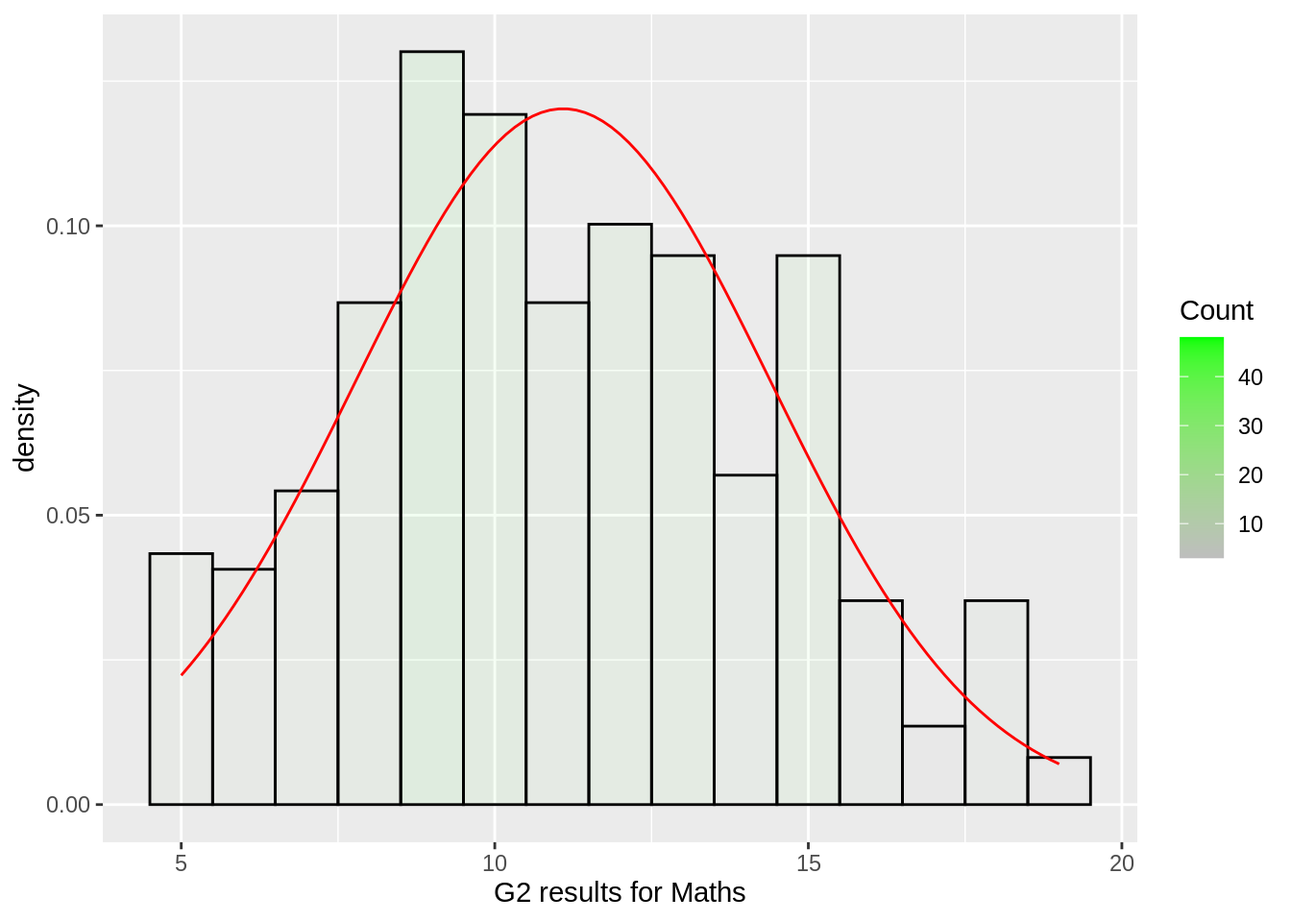
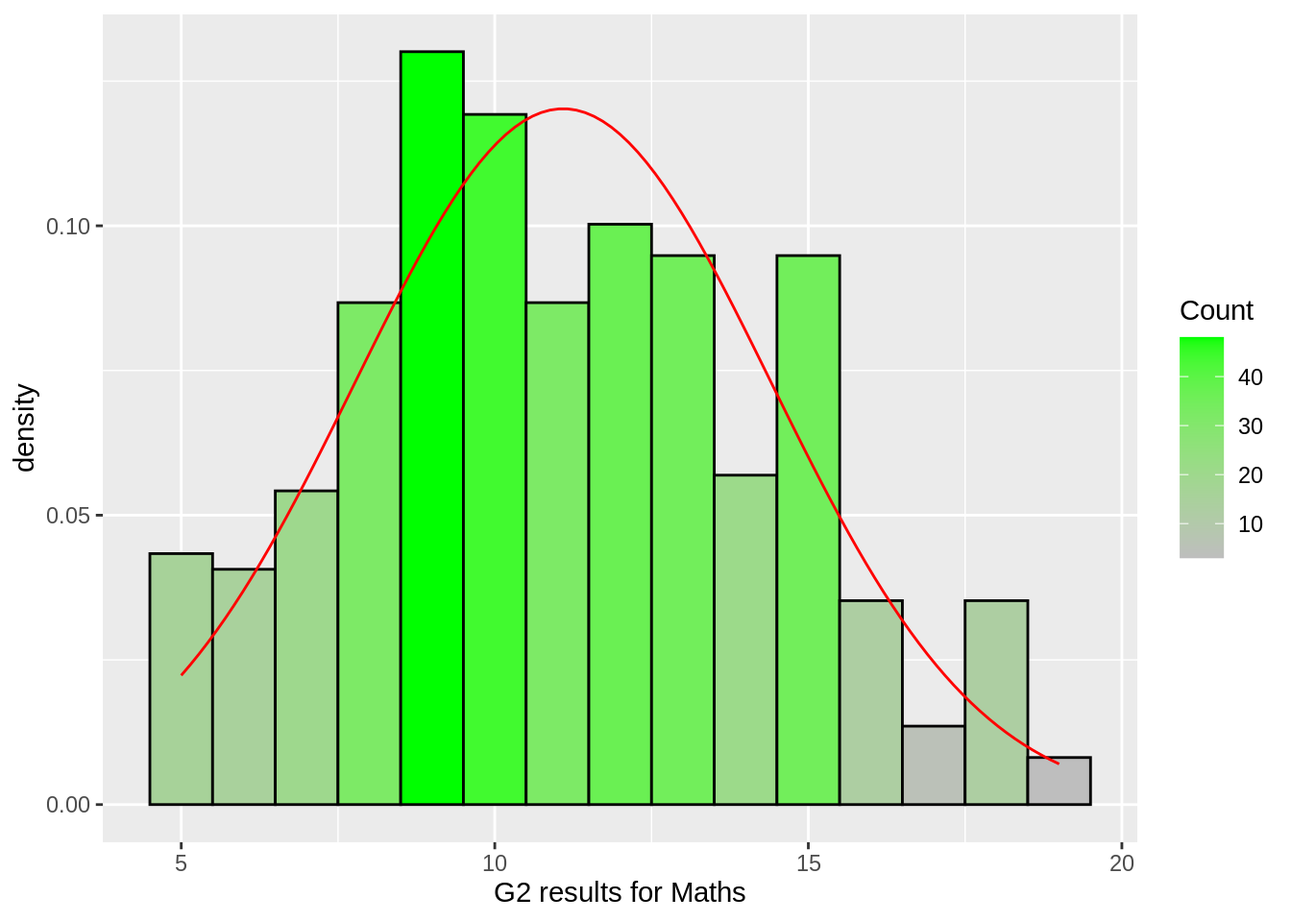
adding chi square test

Changed region(s): [[0.0938, 0.0312, 0.8438, 0.875]]

diff --git a/docs/posts/studentperf/index.html b/docs/posts/studentperf/index.html
@@ -211,18 +211,18 @@ studentdf<span style="color:#f92672">=</span><span style="color:#a6e22e">merge</
 <p>let’s us pick a random student:</p>
 <div class="highlight"><pre style="color:#f8f8f2;background-color:#272822;-moz-tab-size:4;-o-tab-size:4;tab-size:4"><code class="language-r" data-lang="r">studentdf <span style="color:#f92672">%&gt;%</span> 
   <span style="color:#a6e22e">sample_n</span>(<span style="color:#ae81ff">1</span>) 
-</code></pre></div><pre><code>##   school sex age address famsize pstatus medu fedu     mjob  fjob     reason
-## 1     GP   F  15       U     LE3       T    3    2 services other reputation
+</code></pre></div><pre><code>##   school sex age address famsize pstatus medu fedu     mjob     fjob     reason
+## 1     GP   M  17       U     LE3       T    2    3 services services reputation
 ##   nursery internet guardian.x traveltime.x studytime.x failures.x schoolsup.x
-## 1     yes      yes     mother            1           2          0          no
+## 1      no      yes     father            1           2          0          no
 ##   famsup.x paid.x activities.x higher.x romantic.x famrel.x freetime.x goout.x
-## 1      yes    yes           no      yes         no        4          4       4
+## 1      yes    yes           no      yes         no        5          3       3
 ##   dalc.x walc.x health.x absences.x g1.x g2.x g3.x guardian.y traveltime.y
-## 1      1      1        5         10    7    6    6     mother            1
+## 1      1      3        3          2   12   11   12     father            1
 ##   studytime.y failures.y schoolsup.y famsup.y paid.y activities.y higher.y
 ## 1           2          0          no      yes     no           no      yes
 ##   romantic.y famrel.y freetime.y goout.y dalc.y walc.y health.y absences.y g1.y
-## 1         no        4          4       4      1      1        5          4   12
+## 1         no        5          3       3      1      3        3          0   10
 ##   g2.y g3.y
 ## 1   11   11
 </code></pre>
@@ -1100,6 +1100,7 @@ t[t<span style="color:#f92672">&gt;</span><span style="color:#ae81ff">0</span>]
 <li>Is there a difference in the health of the students between the students who’s address is rural vs urban?</li>
 <li>Does the reason for choosing the school impact the the final grade in Portugese?</li>
 <li>Are there any differences between each student’s mother’s Education and their Final Grade result in Maths including the zero results.</li>
+<li>Is there a difference between the male and females students in terms of their weekly study time?</li>
 </ol>
 <h2 id="correlation-g2-and-g3">Correlation (G2 and G3)</h2>
 <p>Looking at the two variables for Maths. Please refer to [skew-and-kurtosis-analysis] for the g3 analysis of Maths.
@@ -1107,7 +1108,7 @@ Looking at g2, I know there is some missing data but a very small amount. We nee
 <div class="highlight"><pre style="color:#f8f8f2;background-color:#272822;-moz-tab-size:4;-o-tab-size:4;tab-size:4"><code class="language-r" data-lang="r">studentdf <span style="color:#f92672">%&gt;%</span>
   <span style="color:#a6e22e">ggplot</span>(<span style="color:#a6e22e">aes</span>(x<span style="color:#f92672">=</span>g2.x)) <span style="color:#f92672">+</span>
   <span style="color:#a6e22e">labs</span>(x<span style="color:#f92672">=</span><span style="color:#e6db74">&#34;G2 results for Maths&#34;</span>) <span style="color:#f92672">+</span>
-  <span style="color:#a6e22e">geom_histogram</span>(alpha <span style="color:#f92672">=</span> <span style="color:#ae81ff">.05</span>, binwidth<span style="color:#f92672">=</span><span style="color:#ae81ff">1</span>, colour<span style="color:#f92672">=</span><span style="color:#e6db74">&#34;black&#34;</span>, <span style="color:#a6e22e">aes</span>(y<span style="color:#f92672">=</span>..density.., fill<span style="color:#f92672">=</span>..count..)) <span style="color:#f92672">+</span>
+  <span style="color:#a6e22e">geom_histogram</span>( binwidth<span style="color:#f92672">=</span><span style="color:#ae81ff">1</span>, colour<span style="color:#f92672">=</span><span style="color:#e6db74">&#34;black&#34;</span>, <span style="color:#a6e22e">aes</span>(y<span style="color:#f92672">=</span>..density.., fill<span style="color:#f92672">=</span>..count..)) <span style="color:#f92672">+</span>
   <span style="color:#a6e22e">scale_fill_gradient</span>(<span style="color:#e6db74">&#34;Count&#34;</span>, low<span style="color:#f92672">=</span><span style="color:#e6db74">&#34;grey&#34;</span>, high<span style="color:#f92672">=</span><span style="color:#e6db74">&#34;green&#34;</span>) <span style="color:#f92672">+</span>
   <span style="color:#a6e22e">stat_function</span>(fun<span style="color:#f92672">=</span>dnorm, color<span style="color:#f92672">=</span><span style="color:#e6db74">&#34;red&#34;</span>,args<span style="color:#f92672">=</span><span style="color:#a6e22e">list</span>(mean<span style="color:#f92672">=</span><span style="color:#a6e22e">mean</span>(studentdf<span style="color:#f92672">$</span>g2.x, na.rm<span style="color:#f92672">=</span><span style="color:#66d9ef">TRUE</span>), sd<span style="color:#f92672">=</span><span style="color:#a6e22e">sd</span>(studentdf<span style="color:#f92672">$</span>g2.x, na.rm<span style="color:#f92672">=</span><span style="color:#66d9ef">TRUE</span>)))
 </code></pre></div><div class="figure" style="text-align: center">
@@ -1336,7 +1337,7 @@ a <span style="color:#f92672">&lt;-</span> <span style="color:#a6e22e">sort</spa
 <div class="highlight"><pre style="color:#f8f8f2;background-color:#272822;-moz-tab-size:4;-o-tab-size:4;tab-size:4"><code class="language-r" data-lang="r">studentdf <span style="color:#f92672">%&gt;%</span>
   <span style="color:#a6e22e">ggplot</span>(<span style="color:#a6e22e">aes</span>(x<span style="color:#f92672">=</span>absences.x)) <span style="color:#f92672">+</span>
   <span style="color:#a6e22e">labs</span>(x<span style="color:#f92672">=</span><span style="color:#e6db74">&#34;number of school absences for Maths&#34;</span>) <span style="color:#f92672">+</span>
-  <span style="color:#a6e22e">geom_histogram</span>(alpha <span style="color:#f92672">=</span> <span style="color:#ae81ff">.05</span>, binwidth<span style="color:#f92672">=</span><span style="color:#ae81ff">1</span>, colour<span style="color:#f92672">=</span><span style="color:#e6db74">&#34;black&#34;</span>, <span style="color:#a6e22e">aes</span>(y<span style="color:#f92672">=</span>..density.., fill<span style="color:#f92672">=</span>..count..)) <span style="color:#f92672">+</span>
+  <span style="color:#a6e22e">geom_histogram</span>( binwidth<span style="color:#f92672">=</span><span style="color:#ae81ff">1</span>, colour<span style="color:#f92672">=</span><span style="color:#e6db74">&#34;black&#34;</span>, <span style="color:#a6e22e">aes</span>(y<span style="color:#f92672">=</span>..density.., fill<span style="color:#f92672">=</span>..count..)) <span style="color:#f92672">+</span>
   <span style="color:#a6e22e">scale_fill_gradient</span>(<span style="color:#e6db74">&#34;Count&#34;</span>, low<span style="color:#f92672">=</span><span style="color:#e6db74">&#34;grey&#34;</span>, high<span style="color:#f92672">=</span><span style="color:#e6db74">&#34;green&#34;</span>) <span style="color:#f92672">+</span>
   <span style="color:#a6e22e">stat_function</span>(fun<span style="color:#f92672">=</span>dnorm, color<span style="color:#f92672">=</span><span style="color:#e6db74">&#34;red&#34;</span>,args<span style="color:#f92672">=</span><span style="color:#a6e22e">list</span>(mean<span style="color:#f92672">=</span><span style="color:#a6e22e">mean</span>(studentdf<span style="color:#f92672">$</span>absences.x, na.rm<span style="color:#f92672">=</span><span style="color:#66d9ef">TRUE</span>), sd<span style="color:#f92672">=</span><span style="color:#a6e22e">sd</span>(studentdf<span style="color:#f92672">$</span>absences.x, na.rm<span style="color:#f92672">=</span><span style="color:#66d9ef">TRUE</span>)))
 </code></pre></div><div class="figure" style="text-align: center">
@@ -1567,7 +1568,7 @@ An independent-samples t-test was conducted to compare Maths grade 2 results for
 <div class="highlight"><pre style="color:#f8f8f2;background-color:#272822;-moz-tab-size:4;-o-tab-size:4;tab-size:4"><code class="language-r" data-lang="r">studentdf <span style="color:#f92672">%&gt;%</span>
   <span style="color:#a6e22e">ggplot</span>(<span style="color:#a6e22e">aes</span>(x<span style="color:#f92672">=</span>g1.x)) <span style="color:#f92672">+</span>
   <span style="color:#a6e22e">labs</span>(x<span style="color:#f92672">=</span><span style="color:#e6db74">&#34;G1 results for Maths&#34;</span>) <span style="color:#f92672">+</span>
-  <span style="color:#a6e22e">geom_histogram</span>(alpha <span style="color:#f92672">=</span> <span style="color:#ae81ff">.05</span>, binwidth<span style="color:#f92672">=</span><span style="color:#ae81ff">1</span>, colour<span style="color:#f92672">=</span><span style="color:#e6db74">&#34;black&#34;</span>, <span style="color:#a6e22e">aes</span>(y<span style="color:#f92672">=</span>..density.., fill<span style="color:#f92672">=</span>..count..)) <span style="color:#f92672">+</span>
+  <span style="color:#a6e22e">geom_histogram</span>( binwidth<span style="color:#f92672">=</span><span style="color:#ae81ff">1</span>, colour<span style="color:#f92672">=</span><span style="color:#e6db74">&#34;black&#34;</span>, <span style="color:#a6e22e">aes</span>(y<span style="color:#f92672">=</span>..density.., fill<span style="color:#f92672">=</span>..count..)) <span style="color:#f92672">+</span>
   <span style="color:#a6e22e">scale_fill_gradient</span>(<span style="color:#e6db74">&#34;Count&#34;</span>, low<span style="color:#f92672">=</span><span style="color:#e6db74">&#34;grey&#34;</span>, high<span style="color:#f92672">=</span><span style="color:#e6db74">&#34;green&#34;</span>) <span style="color:#f92672">+</span>
   <span style="color:#a6e22e">stat_function</span>(fun<span style="color:#f92672">=</span>dnorm, color<span style="color:#f92672">=</span><span style="color:#e6db74">&#34;red&#34;</span>,args<span style="color:#f92672">=</span><span style="color:#a6e22e">list</span>(mean<span style="color:#f92672">=</span><span style="color:#a6e22e">mean</span>(studentdf<span style="color:#f92672">$</span>g1.x, na.rm<span style="color:#f92672">=</span><span style="color:#66d9ef">TRUE</span>), sd<span style="color:#f92672">=</span><span style="color:#a6e22e">sd</span>(studentdf<span style="color:#f92672">$</span>g1.x, na.rm<span style="color:#f92672">=</span><span style="color:#66d9ef">TRUE</span>)))
 </code></pre></div><div class="figure" style="text-align: center">
@@ -1649,7 +1650,7 @@ Looking again at the <a href="#testtable">Test Table</a>. Because our continuous
 paid_students_maths <span style="color:#f92672">%&gt;%</span>
   <span style="color:#a6e22e">ggplot</span>(<span style="color:#a6e22e">aes</span>(x<span style="color:#f92672">=</span>g1.x)) <span style="color:#f92672">+</span>
   <span style="color:#a6e22e">labs</span>(x<span style="color:#f92672">=</span><span style="color:#e6db74">&#34;G1 results for Maths&#34;</span>) <span style="color:#f92672">+</span>
-  <span style="color:#a6e22e">geom_histogram</span>(alpha <span style="color:#f92672">=</span> <span style="color:#ae81ff">.05</span>, binwidth<span style="color:#f92672">=</span><span style="color:#ae81ff">1</span>, colour<span style="color:#f92672">=</span><span style="color:#e6db74">&#34;black&#34;</span>, <span style="color:#a6e22e">aes</span>(y<span style="color:#f92672">=</span>..density.., fill<span style="color:#f92672">=</span>..count..)) <span style="color:#f92672">+</span>
+  <span style="color:#a6e22e">geom_histogram</span>( binwidth<span style="color:#f92672">=</span><span style="color:#ae81ff">1</span>, colour<span style="color:#f92672">=</span><span style="color:#e6db74">&#34;black&#34;</span>, <span style="color:#a6e22e">aes</span>(y<span style="color:#f92672">=</span>..density.., fill<span style="color:#f92672">=</span>..count..)) <span style="color:#f92672">+</span>
   <span style="color:#a6e22e">scale_fill_gradient</span>(<span style="color:#e6db74">&#34;Count&#34;</span>, low<span style="color:#f92672">=</span><span style="color:#e6db74">&#34;grey&#34;</span>, high<span style="color:#f92672">=</span><span style="color:#e6db74">&#34;green&#34;</span>) <span style="color:#f92672">+</span>
   <span style="color:#a6e22e">stat_function</span>(fun<span style="color:#f92672">=</span>dnorm, color<span style="color:#f92672">=</span><span style="color:#e6db74">&#34;red&#34;</span>,args<span style="color:#f92672">=</span><span style="color:#a6e22e">list</span>(mean<span style="color:#f92672">=</span><span style="color:#a6e22e">mean</span>(paid_students_maths<span style="color:#f92672">$</span>g1.x, na.rm<span style="color:#f92672">=</span><span style="color:#66d9ef">TRUE</span>), sd<span style="color:#f92672">=</span><span style="color:#a6e22e">sd</span>(paid_students_maths<span style="color:#f92672">$</span>g1.x, na.rm<span style="color:#f92672">=</span><span style="color:#66d9ef">TRUE</span>)))
 </code></pre></div><div class="figure" style="text-align: center">
@@ -1684,7 +1685,7 @@ tpkurt[1]<span style="color:#f92672">/</span>tpkurt[2]
 <div class="highlight"><pre style="color:#f8f8f2;background-color:#272822;-moz-tab-size:4;-o-tab-size:4;tab-size:4"><code class="language-r" data-lang="r">paid_students_maths <span style="color:#f92672">%&gt;%</span>
   <span style="color:#a6e22e">ggplot</span>(<span style="color:#a6e22e">aes</span>(x<span style="color:#f92672">=</span>g3.x)) <span style="color:#f92672">+</span>
   <span style="color:#a6e22e">labs</span>(x<span style="color:#f92672">=</span><span style="color:#e6db74">&#34;G3 results for Maths&#34;</span>) <span style="color:#f92672">+</span>
-  <span style="color:#a6e22e">geom_histogram</span>(alpha <span style="color:#f92672">=</span> <span style="color:#ae81ff">.05</span>, binwidth<span style="color:#f92672">=</span><span style="color:#ae81ff">1</span>, colour<span style="color:#f92672">=</span><span style="color:#e6db74">&#34;black&#34;</span>, <span style="color:#a6e22e">aes</span>(y<span style="color:#f92672">=</span>..density.., fill<span style="color:#f92672">=</span>..count..)) <span style="color:#f92672">+</span>
+  <span style="color:#a6e22e">geom_histogram</span>( binwidth<span style="color:#f92672">=</span><span style="color:#ae81ff">1</span>, colour<span style="color:#f92672">=</span><span style="color:#e6db74">&#34;black&#34;</span>, <span style="color:#a6e22e">aes</span>(y<span style="color:#f92672">=</span>..density.., fill<span style="color:#f92672">=</span>..count..)) <span style="color:#f92672">+</span>
   <span style="color:#a6e22e">scale_fill_gradient</span>(<span style="color:#e6db74">&#34;Count&#34;</span>, low<span style="color:#f92672">=</span><span style="color:#e6db74">&#34;grey&#34;</span>, high<span style="color:#f92672">=</span><span style="color:#e6db74">&#34;green&#34;</span>) <span style="color:#f92672">+</span>
   <span style="color:#a6e22e">stat_function</span>(fun<span style="color:#f92672">=</span>dnorm, color<span style="color:#f92672">=</span><span style="color:#e6db74">&#34;red&#34;</span>,args<span style="color:#f92672">=</span><span style="color:#a6e22e">list</span>(mean<span style="color:#f92672">=</span><span style="color:#a6e22e">mean</span>(paid_students_maths<span style="color:#f92672">$</span>g3.x, na.rm<span style="color:#f92672">=</span><span style="color:#66d9ef">TRUE</span>), sd<span style="color:#f92672">=</span><span style="color:#a6e22e">sd</span>(paid_students_maths<span style="color:#f92672">$</span>g3.x, na.rm<span style="color:#f92672">=</span><span style="color:#66d9ef">TRUE</span>)))
 </code></pre></div><div class="figure" style="text-align: center">
@@ -1793,7 +1794,7 @@ a <span style="color:#f92672">&lt;-</span> <span style="color:#a6e22e">sort</spa
 <div class="highlight"><pre style="color:#f8f8f2;background-color:#272822;-moz-tab-size:4;-o-tab-size:4;tab-size:4"><code class="language-r" data-lang="r">studentdf <span style="color:#f92672">%&gt;%</span>
   <span style="color:#a6e22e">ggplot</span>(<span style="color:#a6e22e">aes</span>(x<span style="color:#f92672">=</span>health.x)) <span style="color:#f92672">+</span>
   <span style="color:#a6e22e">labs</span>(x<span style="color:#f92672">=</span><span style="color:#e6db74">&#34;Health on scale from 1-5&#34;</span>) <span style="color:#f92672">+</span>
-  <span style="color:#a6e22e">geom_histogram</span>(alpha <span style="color:#f92672">=</span> <span style="color:#ae81ff">.05</span>, binwidth<span style="color:#f92672">=</span><span style="color:#ae81ff">1</span>, colour<span style="color:#f92672">=</span><span style="color:#e6db74">&#34;black&#34;</span>, <span style="color:#a6e22e">aes</span>(y<span style="color:#f92672">=</span>..density.., fill<span style="color:#f92672">=</span>..count..)) <span style="color:#f92672">+</span>
+  <span style="color:#a6e22e">geom_histogram</span>( binwidth<span style="color:#f92672">=</span><span style="color:#ae81ff">1</span>, colour<span style="color:#f92672">=</span><span style="color:#e6db74">&#34;black&#34;</span>, <span style="color:#a6e22e">aes</span>(y<span style="color:#f92672">=</span>..density.., fill<span style="color:#f92672">=</span>..count..)) <span style="color:#f92672">+</span>
   <span style="color:#a6e22e">scale_fill_gradient</span>(<span style="color:#e6db74">&#34;Count&#34;</span>, low<span style="color:#f92672">=</span><span style="color:#e6db74">&#34;grey&#34;</span>, high<span style="color:#f92672">=</span><span style="color:#e6db74">&#34;blue&#34;</span>) <span style="color:#f92672">+</span>
   <span style="color:#a6e22e">stat_function</span>(fun<span style="color:#f92672">=</span>dnorm, color<span style="color:#f92672">=</span><span style="color:#e6db74">&#34;red&#34;</span>,args<span style="color:#f92672">=</span><span style="color:#a6e22e">list</span>(mean<span style="color:#f92672">=</span><span style="color:#a6e22e">mean</span>(studentdf<span style="color:#f92672">$</span>health.x, na.rm<span style="color:#f92672">=</span><span style="color:#66d9ef">TRUE</span>), sd<span style="color:#f92672">=</span><span style="color:#a6e22e">sd</span>(studentdf<span style="color:#f92672">$</span>health.x, na.rm<span style="color:#f92672">=</span><span style="color:#66d9ef">TRUE</span>)))
 </code></pre></div><div class="figure" style="text-align: center">
@@ -1853,7 +1854,7 @@ Looking again at the <a href="#testtable">Test Table</a>. We have two independen
 <p>We need a z-score for this. We can use qnorm() to get it from the p-value. The z-value is -0.3322507 and N is 382.
 Rosenthal’s r is then -0.0169994</p>
 <p>Reporting:
-&ldquo;Health levels for students who had an Urban address(Mdn=4 IQR=2) did not differ significantly from those who had an Rural address(Mdn=4 IQR=2).(U=12473, z=0.33, p=0.74, r=0.17)</p>
+&ldquo;Health levels for students who had an Urban address(Mdn = 4 IQR = 2) did not differ significantly from those who had an Rural address(Mdn=4 IQR=2). Rosenthal’s r indicates a small effect. (U = 12473, z = 0.33, p = .74, r = 0.17)</p>
 <p>My Analysis is that this should have been quite clear from the box plot and was only worth going this far to demonstrate a Mann-Whitney test.</p>
 <h2 id="anova-reason-vs-final-grade-in-portuguese-">ANOVA (Reason vs Final Grade in Portuguese )</h2>
 <p>The question:</p>
@@ -1869,7 +1870,7 @@ Quick check to make sure g3.y is normal.</p>
 <div class="highlight"><pre style="color:#f8f8f2;background-color:#272822;-moz-tab-size:4;-o-tab-size:4;tab-size:4"><code class="language-r" data-lang="r">studentdf <span style="color:#f92672">%&gt;%</span>
   <span style="color:#a6e22e">ggplot</span>(<span style="color:#a6e22e">aes</span>(x<span style="color:#f92672">=</span>g3.y)) <span style="color:#f92672">+</span>
   <span style="color:#a6e22e">labs</span>(x<span style="color:#f92672">=</span><span style="color:#e6db74">&#34;G3 results for Portuguese&#34;</span>) <span style="color:#f92672">+</span>
-  <span style="color:#a6e22e">geom_histogram</span>(alpha <span style="color:#f92672">=</span> <span style="color:#ae81ff">.05</span>, binwidth<span style="color:#f92672">=</span><span style="color:#ae81ff">1</span>, colour<span style="color:#f92672">=</span><span style="color:#e6db74">&#34;black&#34;</span>, <span style="color:#a6e22e">aes</span>(y<span style="color:#f92672">=</span>..density.., fill<span style="color:#f92672">=</span>..count..)) <span style="color:#f92672">+</span>
+  <span style="color:#a6e22e">geom_histogram</span>( binwidth<span style="color:#f92672">=</span><span style="color:#ae81ff">1</span>, colour<span style="color:#f92672">=</span><span style="color:#e6db74">&#34;black&#34;</span>, <span style="color:#a6e22e">aes</span>(y<span style="color:#f92672">=</span>..density.., fill<span style="color:#f92672">=</span>..count..)) <span style="color:#f92672">+</span>
   <span style="color:#a6e22e">scale_fill_gradient</span>(<span style="color:#e6db74">&#34;Count&#34;</span>, low<span style="color:#f92672">=</span><span style="color:#e6db74">&#34;grey&#34;</span>, high<span style="color:#f92672">=</span><span style="color:#e6db74">&#34;blue&#34;</span>) <span style="color:#f92672">+</span>
   <span style="color:#a6e22e">stat_function</span>(fun<span style="color:#f92672">=</span>dnorm, color<span style="color:#f92672">=</span><span style="color:#e6db74">&#34;red&#34;</span>,args<span style="color:#f92672">=</span><span style="color:#a6e22e">list</span>(mean<span style="color:#f92672">=</span><span style="color:#a6e22e">mean</span>(studentdf<span style="color:#f92672">$</span>g3.y, na.rm<span style="color:#f92672">=</span><span style="color:#66d9ef">TRUE</span>), sd<span style="color:#f92672">=</span><span style="color:#a6e22e">sd</span>(studentdf<span style="color:#f92672">$</span>g3.y, na.rm<span style="color:#f92672">=</span><span style="color:#66d9ef">TRUE</span>)))
 </code></pre></div><div class="figure" style="text-align: center">
@@ -2044,7 +2045,7 @@ aoveta
 </code></pre>
 <p>Checking Eta with the <a href="#effect">Effect Table</a></p>
 <p>Reporting the results with eta squared effect
-An one-way between-groups analysis of variance (ANOVA) was conducted to to explore the impact of the reason for attending a school the Final Grades in Portuguese. Students were divided into four groups based on their reason for attending the school (close to ‘home’, school ‘reputation’, ‘course’ preference or ‘other’). No statistically significant difference in the final grades and associated reason was found (M=12.33, SD=2.6 for reason course, M=12.75, SD=2.4 for reason home, M=12.48, SD=3.0 for reason other and M=13.16, SD=2.6 for reason reputation) , (F(3, 373)= 2.09, p=0.101). A small effect size was also indicated by the eta squared value (0.017).</p>
+An one-way between-groups analysis of variance (ANOVA) was conducted to to explore the impact of the reason for attending a school the Final Grades in Portuguese. Students were divided into four groups based on their reason for attending the school (close to ‘home’, school ‘reputation’, ‘course’ preference or ‘other’). No statistically significant difference in the final grades and associated reason was found (M=12.33, SD=2.6 for reason course, M=12.75, SD=2.4 for reason home, M=12.48, SD=3.0 for reason other and M=13.16, SD=2.6 for reason reputation) , (F(3, 373) = 2.09, p = .101). A small effect size was also indicated by the eta squared value (0.017).</p>
 <h2 id="kruskal-wallis-mothers-education-and-maths-g3">Kruskal-Wallis (Mother’s Education and Maths G3)</h2>
 <p>The question:</p>
 <p>Are there any differences between each student’s mother’s Education and their Final Grade result in Maths including the zero results.</p>
@@ -2055,7 +2056,7 @@ An one-way between-groups analysis of variance (ANOVA) was conducted to to explo
 <div class="highlight"><pre style="color:#f8f8f2;background-color:#272822;-moz-tab-size:4;-o-tab-size:4;tab-size:4"><code class="language-r" data-lang="r">studentdf <span style="color:#f92672">%&gt;%</span>
   <span style="color:#a6e22e">ggplot</span>(<span style="color:#a6e22e">aes</span>(x<span style="color:#f92672">=</span>g3.x.all)) <span style="color:#f92672">+</span>
   <span style="color:#a6e22e">labs</span>(x<span style="color:#f92672">=</span><span style="color:#e6db74">&#34;G3 results for Maths&#34;</span>) <span style="color:#f92672">+</span>
-  <span style="color:#a6e22e">geom_histogram</span>(alpha <span style="color:#f92672">=</span> <span style="color:#ae81ff">.05</span>, binwidth<span style="color:#f92672">=</span><span style="color:#ae81ff">1</span>, colour<span style="color:#f92672">=</span><span style="color:#e6db74">&#34;black&#34;</span>, <span style="color:#a6e22e">aes</span>(y<span style="color:#f92672">=</span>..density.., fill<span style="color:#f92672">=</span>..count..)) <span style="color:#f92672">+</span>
+  <span style="color:#a6e22e">geom_histogram</span>( binwidth<span style="color:#f92672">=</span><span style="color:#ae81ff">1</span>, colour<span style="color:#f92672">=</span><span style="color:#e6db74">&#34;black&#34;</span>, <span style="color:#a6e22e">aes</span>(y<span style="color:#f92672">=</span>..density.., fill<span style="color:#f92672">=</span>..count..)) <span style="color:#f92672">+</span>
   <span style="color:#a6e22e">scale_fill_gradient</span>(<span style="color:#e6db74">&#34;Count&#34;</span>, low<span style="color:#f92672">=</span><span style="color:#e6db74">&#34;grey&#34;</span>, high<span style="color:#f92672">=</span><span style="color:#e6db74">&#34;green&#34;</span>) <span style="color:#f92672">+</span>
   <span style="color:#a6e22e">stat_function</span>(fun<span style="color:#f92672">=</span>dnorm, color<span style="color:#f92672">=</span><span style="color:#e6db74">&#34;red&#34;</span>,args<span style="color:#f92672">=</span><span style="color:#a6e22e">list</span>(mean<span style="color:#f92672">=</span><span style="color:#a6e22e">mean</span>(studentdf<span style="color:#f92672">$</span>g3.x.all, na.rm<span style="color:#f92672">=</span><span style="color:#66d9ef">TRUE</span>), sd<span style="color:#f92672">=</span><span style="color:#a6e22e">sd</span>(studentdf<span style="color:#f92672">$</span>g3.x.all, na.rm<span style="color:#f92672">=</span><span style="color:#66d9ef">TRUE</span>)))
 </code></pre></div><div class="figure" style="text-align: center">
@@ -2136,6 +2137,7 @@ stats<span style="color:#f92672">::</span><span style="color:#a6e22e">kruskal.te
 ## data:  g3.x.all by mjob
 ## Kruskal-Wallis chi-squared = 18.036, df = 4, p-value = 0.001214
 </code></pre>
+<p>The test statistic produced is called Kruskal-Wallis chi-squared and is referred to as H.</p>
 <p>With a p-value of 0.0012, we have found a statistic significantly different, so we can reject the Null Hypothesis. They are not the same.
 But we don’t know yet from the Kruskal-Wallis which groups are different, to do that we need to do a post hox test. For one-way ANOVA we used the turkey test, this time we use the dunnTest as a post hoc test in the package FSA to produce a comparison of the different groups with a bonferroni correction. We can then identify what’s different.</p>
 <p>We use the bonferroni correction to adjust the p-values of the comparisons, because of the increased risk of type I error (rejecting the null when it’s true), which happens when we make multiple tests. Essentially the bonferroni correction is dividing our alpha by the number of comparisons. But we can’t win them all, as soon as we reduce the chances of getting a type I error we increase the chances of getting a type II error.</p>
@@ -2172,22 +2174,6 @@ tmp<span style="color:#f92672">&lt;-</span>FSA<span style="color:#f92672">::</sp
 ##  Reject Ho if p &lt;= alpha
 </code></pre>
 <p>The test statistic is Z and underneath is the corrected p-value. Now we can see which comparisons are significantly different. Mother’s job in health and Mother’s job at home are significantly different. and also Mother’s job in services and Mother’s job at home are significantly different.</p>
-<div class="highlight"><pre style="color:#f8f8f2;background-color:#272822;-moz-tab-size:4;-o-tab-size:4;tab-size:4"><code class="language-r" data-lang="r"><span style="color:#a6e22e">by</span>(studentdf<span style="color:#f92672">$</span>g3.x.all, studentdf<span style="color:#f92672">$</span>mjob, median)
-</code></pre></div><pre><code>## studentdf$mjob: at_home
-## [1] 10
-## ------------------------------------------------------------ 
-## studentdf$mjob: health
-## [1] 13
-## ------------------------------------------------------------ 
-## studentdf$mjob: other
-## [1] 10.5
-## ------------------------------------------------------------ 
-## studentdf$mjob: services
-## [1] 11
-## ------------------------------------------------------------ 
-## studentdf$mjob: teacher
-## [1] 10.5
-</code></pre>
 <p>Now we need an effect size for eta squared.</p>
 <div class="highlight"><pre style="color:#f8f8f2;background-color:#272822;-moz-tab-size:4;-o-tab-size:4;tab-size:4"><code class="language-r" data-lang="r"><span style="color:#75715e">#calculate the effect size</span>
 rstatix<span style="color:#f92672">::</span><span style="color:#a6e22e">kruskal_effsize</span>(studentdf, g3.x.all<span style="color:#f92672">~</span>mjob, ci <span style="color:#f92672">=</span> <span style="color:#66d9ef">FALSE</span>, conf.level <span style="color:#f92672">=</span> <span style="color:#ae81ff">0.95</span>,
@@ -2199,10 +2185,33 @@ rstatix<span style="color:#f92672">::</span><span style="color:#a6e22e">kruskal_
 </code></pre>
 <p>Reporting</p>
 <p><a href="https://guides.library.lincoln.ac.uk/c.php?g=110730">https://guides.library.lincoln.ac.uk/c.php?g=110730</a>&amp;p=4638045</p>
-<p>An Kruskal-Wallis test between groups was conducted to to explore the impact of a Mother’s Job title on a student’s Final Maths results. Students were divided into four groups based on their mother’s job title(“teacher”, “health” care related, civil “services” (e.g. administrative or police), “at_home” or “other”), the box plots of each can be seen in this <a href="#g3mjobboxplot">Figure</a>, The groups were significantly different. H(4) = 18.04, p=0.001.</p>
-<p>Focused comparisons of the mean ranks between groups showed that the Mother’s job title were only significant in two comparisons, when the mother’s job was at home compared to working in the health service and when the mother’s job was at home compared to the mother’s working in civil services.
-were not significantly different when one soya meal (difference = 2.2 )</p>
-<p>The test provide a small statistically significant difference in the final grades and associated reason was found (M=12.33, SD=2.6 for reason course, M=12.75, SD=2.4 for reason home, M=12.48, SD=3.0 for reason other and M=13.16, SD=2.6 for reason reputation) , (F(3, 373)= 2.09, p=0.101). A small effect size was also indicated by the eta squared value (0.017).</p>
+<p>An Kruskal-Wallis test between groups was conducted to explore the impact of a Mother’s Job title on a student’s Final Maths results. Students were divided into four groups based on their mother’s job title(“teacher”, “health” care related, civil “services” (e.g. administrative or police), “at_home” or “other”), the box plots of each can be seen in this <a href="#g3mjobboxplot">Figure</a> (Media:10.5 for “teacher”, Median:13 for “health” , Median:11 for “services” Median:10 “at_home”, Median:10.5 for &ldquo;other). The groups were significantly different. H(4) = 18.04, p = .001. A small effect size was also indicated by the eta squared value (0.037).</p>
+<p>Focused comparisons of the mean ranks between groups showed that the Mother’s job title were only significant in two comparisons. THe first was when the mother’s job was at home, the Final grade results in Maths were lower in comparison to a mother working in the health service. The second was not as significant but still significant, when a mother’s job was at home, the final grade result was lower in comparison to a mother working in civil service. In summary, a students got better grades when their mother worked in the health or civil service sector rather than working at home.</p>
+<h2 id="-malefemale-weekly-study-">( male/female Weekly study )</h2>
+<p>The Question:</p>
+<p>Is there a difference between the male and females students in terms of their weekly study time?</p>
+<p>the variables:</p>
+<pre><code>2 sex - student's sex (binary: &quot;F&quot; - female or &quot;M&quot; - male)
+14 studytime - weekly study time (numeric: 1 - &lt;2 hours, 2 - 2 to 5 hours, 3 - 5 to 10 hours, or 4 - &gt;10 hours)
+</code></pre>
+<p>Choosing the right test:</p>
+<p>We are comparing ordinal variables here between two groups. I will use Portuguese studytime values. So it is obvious we won’t be able to use a parametric test here. Our outcome variable studytime is not continuous and not a normal distribution. THe Independent variable sex is categorical. This is different to previous questions, as my outcome variable was continuous. Our choice here is to use the CHi-square test / Fisher’s exact.</p>
+<p>We start as always with stating the Null and alternative hypothesis:</p>
+<p><strong>H</strong><sub><strong>0</strong></sub>: There is NO difference between the male and females students in terms of their weekly study time. The distribution across the different study periods are the same for both sexes.</p>
+<p><strong>H</strong><sub><strong>a</strong></sub>: There is a difference between the male and females students in terms of their weekly study time.</p>
+<div class="highlight"><pre style="color:#f8f8f2;background-color:#272822;-moz-tab-size:4;-o-tab-size:4;tab-size:4"><code class="language-r" data-lang="r">studentdf <span style="color:#f92672">%&gt;%</span> 
+  <span style="color:#a6e22e">ggplot</span>( <span style="color:#a6e22e">aes</span>(x<span style="color:#f92672">=</span>studytime.y)) <span style="color:#f92672">+</span>
+    <span style="color:#a6e22e">geom_histogram</span>(stat<span style="color:#f92672">=</span><span style="color:#e6db74">&#34;count&#34;</span>, fill<span style="color:#f92672">=</span><span style="color:#e6db74">&#34;#69b3a2&#34;</span>, color<span style="color:#f92672">=</span><span style="color:#e6db74">&#34;#69b3a2&#34;</span>, position <span style="color:#f92672">=</span> <span style="color:#e6db74">&#39;identity&#39;</span>) <span style="color:#f92672">+</span>
+    <span style="color:#a6e22e">facet_wrap</span>(<span style="color:#f92672">~</span>sex) <span style="color:#f92672">+</span> 
+    <span style="color:#a6e22e">labs</span>(fill<span style="color:#f92672">=</span><span style="color:#e6db74">&#34;&#34;</span>)
+</code></pre></div><div class="figure" style="text-align: center">
+<p><img src="/blog/posts/studentperf/index_files/figure-html/unnamed-chunk-98-1.png" alt="Study times for males/females" width="1152" /></p>
+<p class="caption">
+<p>Figure 39: Study times for males/females</p>
+</p>
+</div>
+<p>We will use the gmodels CrossTable function to compare the frequencies, this si how we make our comparisons, by comparing the expected frequency for a population to the observed one.
+# <code>{r, paged.print=FALSE, results=&quot;hold&quot;} # library(gmodels) # #Use the Crosstable function # #CrossTable(predictor, outcome, fisher = TRUE, chisq = TRUE, expected = TRUE) # gmodels::CrossTable(studentdf$sex, studentdf$studytime.y, fisher = TRUE, chisq = TRUE, expected = TRUE, sresid = TRUE, format = &quot;SPSS&quot;) #  # #more simplistic way of doing Chi-Square #  # #Create your contingency table # mytable&lt;-xtabs(~ubullsch+rsex, data=bully) #  # ctest&lt;-stats::chisq.test(mytable, correct=TRUE)#chi square test # #correct=TRUE to get Yates correction needed for 2x2 table #  # ctest#will give you the details of the test statistic and p-value # ctest$expected#expected frequencies # ctest$observed#observed frequencies # ctest$p.value # #Calculate effect size # sjstats::phi(mytable) # sjstats::cramer(mytable) #</code></p>
 <h2 id="more">More</h2>
 <p>Parametric are most powerful, more robuseness becuse we use every score
 Parametric or non parametric
@@ -2307,6 +2316,7 @@ kendall more reilable</p>
         <li><a href="#mann-whitney-health-for-rural-vs-urban">Mann-Whitney (Health for Rural vs Urban)</a></li>
         <li><a href="#anova-reason-vs-final-grade-in-portuguese-">ANOVA (Reason vs Final Grade in Portuguese )</a></li>
         <li><a href="#kruskal-wallis-mothers-education-and-maths-g3">Kruskal-Wallis (Mother’s Education and Maths G3)</a></li>
+        <li><a href="#-malefemale-weekly-study-">( male/female Weekly study )</a></li>
         <li><a href="#more">More</a></li>
       </ol>
     </li>
